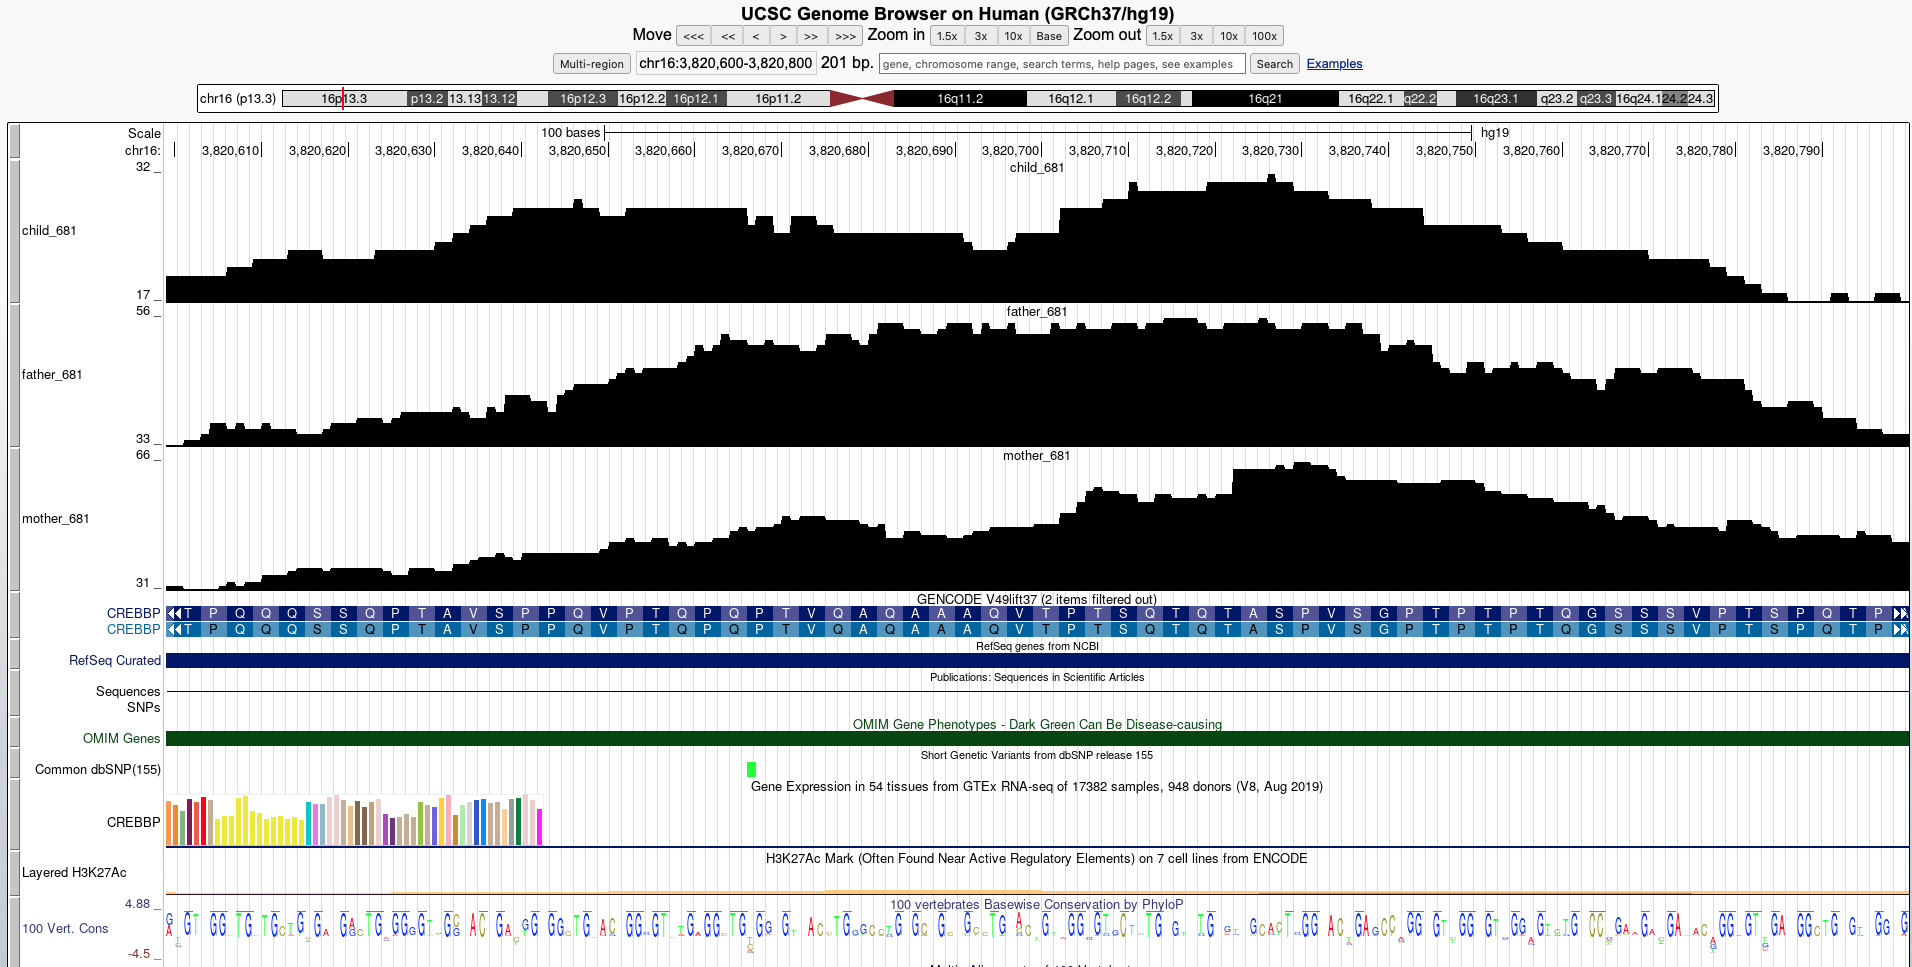
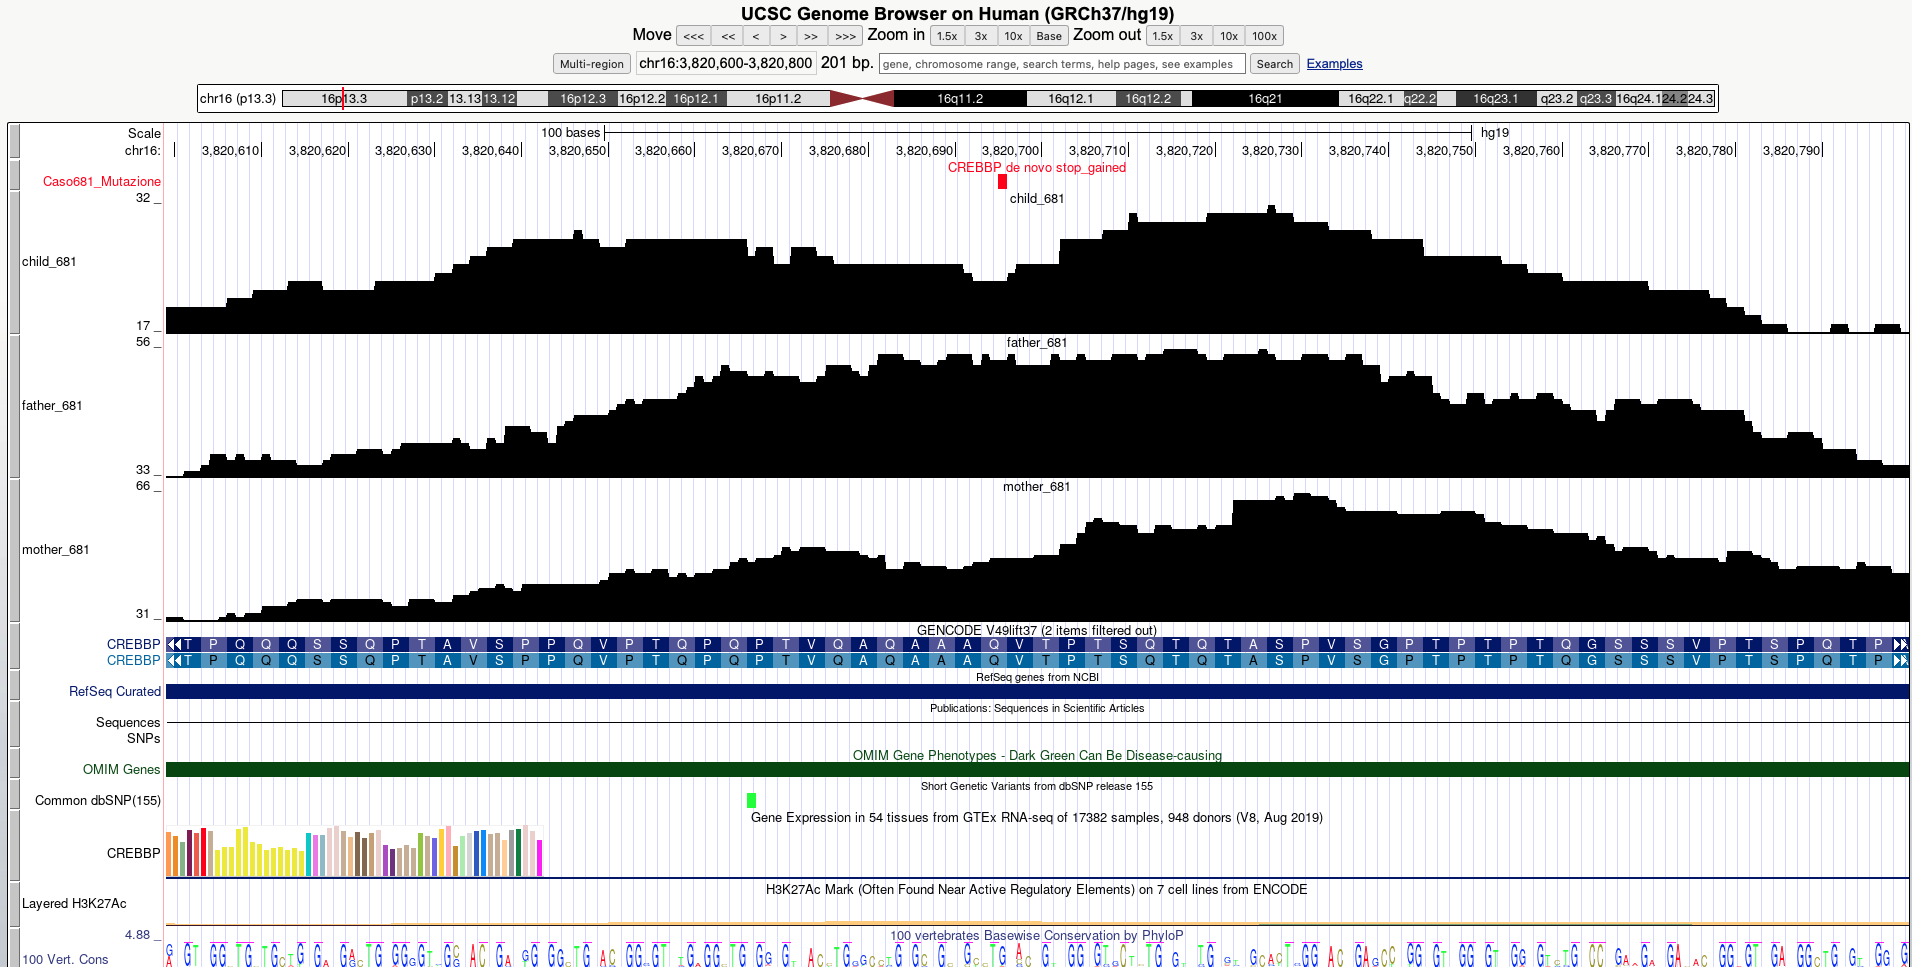
aggiunta della puntina rossa sulla mappa e il nome del tipo di mutazione in README.md

Changed region(s): [[0.0, 0.1551, 1.0, 1.0], [0.0309, 0.1861, 0.0926, 0.2172], [0.0, 0.9928, 0.0617, 1.0]]

diff --git a/README.md b/README.md
@@ -134,12 +134,15 @@ Case 683 was determined not to be associated with any genetic disease. The analy
 ### 5.3 Genomic Visualization (UCSC Genome Browser)
 To visually validate the identified pathogenic variant in Case 681 (*CREBBP*), the alignment coverage was inspected using the UCSC Genome Browser (hg19 assembly). 
 
-The sorted BAM files of the family trio were first converted into lightweight bedgraph format (`.bg`) using `bedtools genomecov` and subsequently uploaded as Custom Tracks. 
-The visualization was scaled to a ~200 bp genomic window (`chr16:3,820,600-3,820,800`) centered around the *de novo* stop_gained mutation (`chr16:3820696`). 
+A custom annotation track (BED format) was explicitly created to precisely pinpoint the exact locus of the *de novo* stop_gained mutation (`chr16:3820696`). Additionally, the sorted BAM files of the family trio were converted into lightweight bedgraph format (`.bg`) using `bedtools genomecov` and uploaded as coverage tracks. 
 
-This specific configuration allows for a direct visual comparison of the read depth across the proband, father, and mother. Furthermore, it confirms that the mutation falls within a highly conserved coding exon, as demonstrated by the multiz alignments of vertebrate species.
+The visualization was scaled to a ~200 bp genomic window (`chr16:3,820,600-3,820,800`). As clearly visible in the generated profiles, there is no drop in read depth (no "valleys" or missing coverage) at the mutation site in the proband compared to the parents. This continuous and robust coverage is expected, as the *CREBBP* mutation is a Single Nucleotide Variant (SNV) rather than a deletion. The high read depth at this specific locus strongly supports the reliability and high quality of the variant call.
 
-![UCSC Coverage Case 681](UCSC_Coverage_681.png)
+Furthermore, the visualization confirms that the substitution falls within a highly conserved coding exon, as demonstrated by the multiz alignments of vertebrate species.
+
+![UCSC Coverage Case 681](UCSC_Coverage_Case681.png)
+
+
 
 ## 6. DISCUSSION
 The implementation of this trio-based bioinformatics pipeline successfully differentiated between pathogenic variants and background genetic noise. A critical aspect of the analysis was the identification of systematic sequencing artifacts and high-frequency benign polymorphisms. For instance, recurrent variants in the *IL34* gene were consistently observed across multiple cases but were confidently filtered out due to their high allele frequency (gnomAD AF > 10%). 
